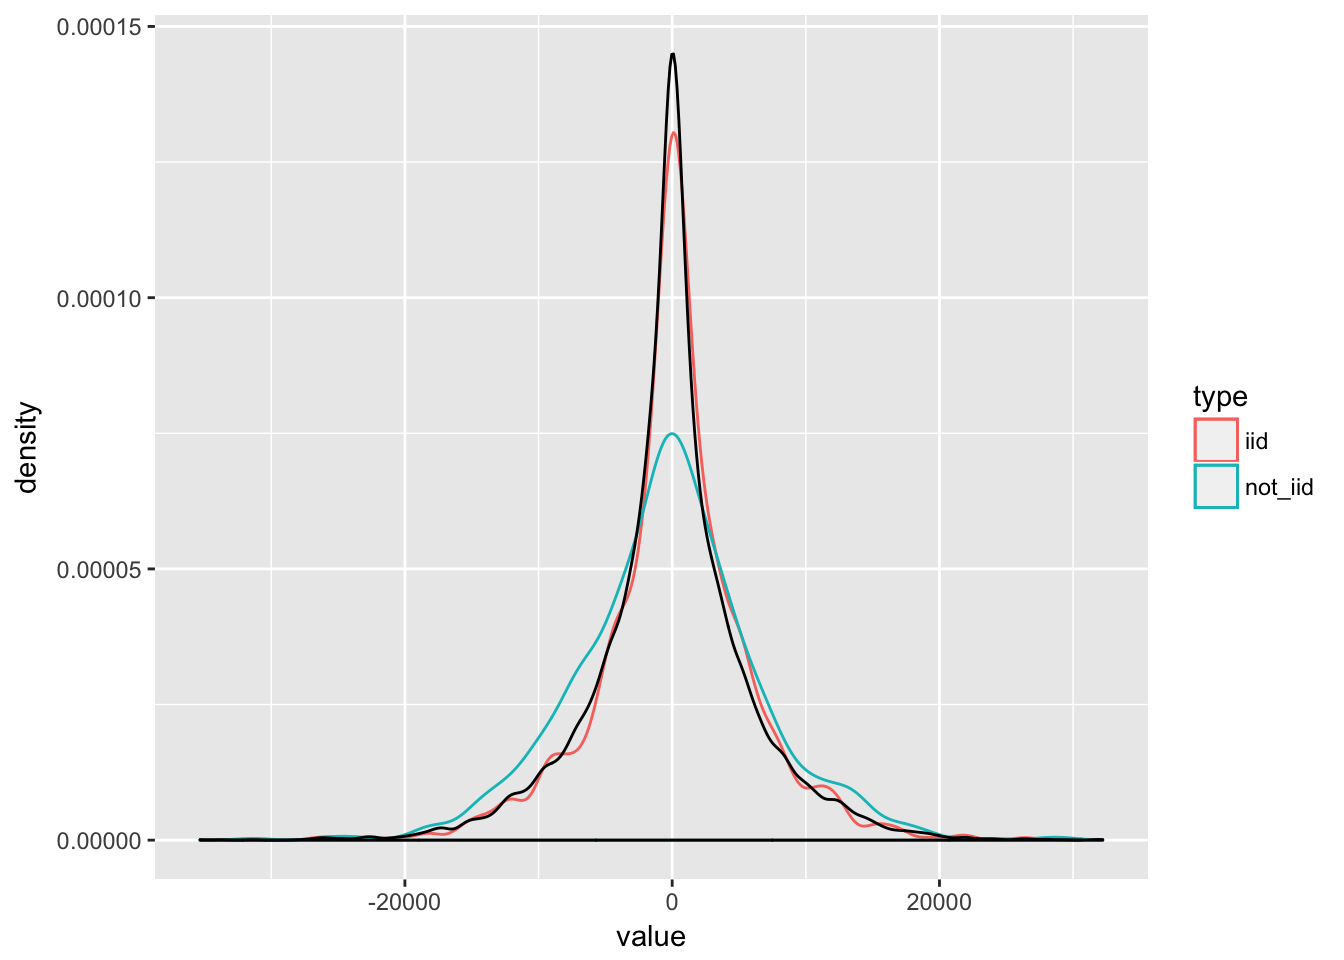
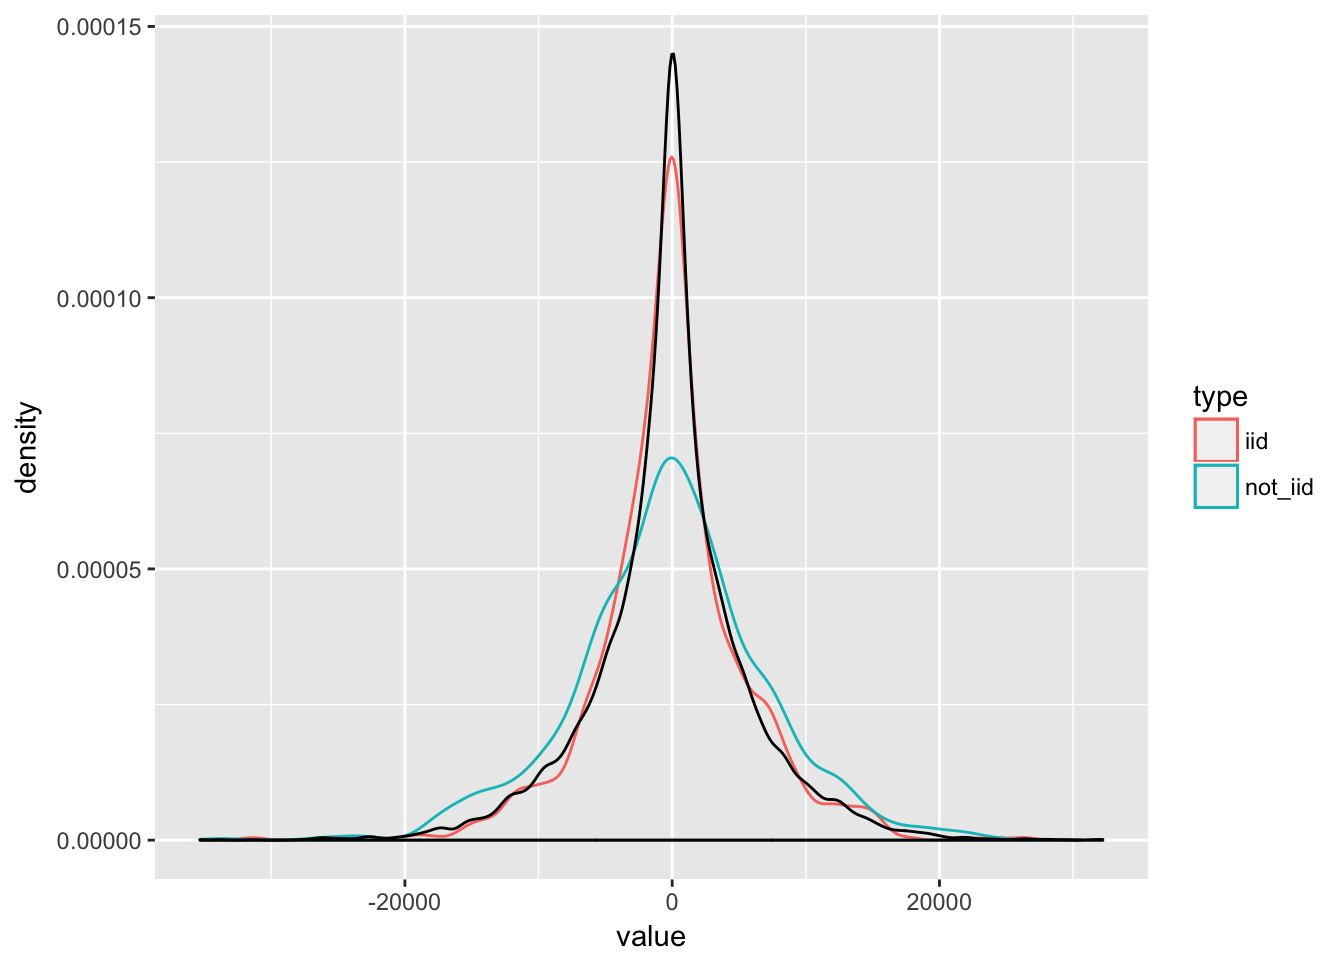
typos and more

Changed region(s): [[0.3125, 0.375, 0.5312, 0.875], [0.5312, 0.5938, 0.75, 0.875], [0.5, 0.1562, 0.5312, 0.3438]]

diff --git a/docs/bootstrap.html b/docs/bootstrap.html
@@ -224,6 +224,7 @@ code > span.in { color: #60a0b0; font-weight: bold; font-style: italic; } /* Inf
 <li class="chapter" data-level="11" data-path="round-up.html"><a href="round-up.html"><i class="fa fa-check"></i><b>11</b> Round up</a><ul>
 <li class="chapter" data-level="11.1" data-path="round-up.html"><a href="round-up.html#comparing-models"><i class="fa fa-check"></i><b>11.1</b> Comparing models</a></li>
 <li class="chapter" data-level="11.2" data-path="round-up.html"><a href="round-up.html#exercises-take-aways"><i class="fa fa-check"></i><b>11.2</b> Exercises Take-aways</a></li>
+<li class="chapter" data-level="11.3" data-path="round-up.html"><a href="round-up.html#cheatsheet"><i class="fa fa-check"></i><b>11.3</b> Cheatsheet</a></li>
 </ul></li>
 <li class="chapter" data-level="12" data-path="intro.html"><a href="intro.html"><i class="fa fa-check"></i><b>12</b> Introduction</a></li>
 <li class="chapter" data-level="" data-path="references.html"><a href="references.html"><i class="fa fa-check"></i>References</a></li>
@@ -257,12 +258,12 @@ code > span.in { color: #60a0b0; font-weight: bold; font-style: italic; } /* Inf
 <p>The problem is that we don’t know <span class="math inline">\(P\)</span>. But we have a data sample that was generated from <span class="math inline">\(P\)</span>. Hence, we can instead take the <strong>empirical</strong> distribution <span class="math inline">\(\hat{P}\)</span> that places probability mass of <span class="math inline">\(1/n\)</span> on each observation, draw a sample from this distribution (which is simply drawing uniformly at random from our sample with replacement) and compute our estimate of interest from this sample. <span class="math display">\[ \hat{\theta}^{*} = g({Z_1}^{*}, ..., {Z_{new}}^{*})\]</span> We can do that many times to get an approximate distribution for <span class="math inline">\(\hat{\theta}\)</span>. A crucial assumption is that <span class="math inline">\(\hat{P}\)</span> reassembles <span class="math inline">\(P\)</span>. If our data is not i.i.d, this may not be the case and hence bootstrapping might be misleading. Below, we can see that i.i.d. sampling (red line) reassembles the true distribution (black line) quite well, whereas biased sampling (blue line) obviously does not. We produce a sample that places higher probability mass on the large (absolute) values.</p>
 <div class="sourceCode"><pre class="sourceCode r"><code class="sourceCode r"><span class="kw">library</span>(<span class="st">&quot;tidyverse&quot;</span>)
 pop &lt;-<span class="st"> </span><span class="kw">data_frame</span>(<span class="dt">pop =</span> <span class="kw">rnorm</span>(<span class="dv">10000</span>) *<span class="st"> </span><span class="dv">1</span>:<span class="dv">10000</span>) 
-iid &lt;-<span class="st"> </span><span class="kw">sample</span>(pop$pop, <span class="dv">1000</span>) <span class="co"># sample iid</span>
+iid &lt;-<span class="st"> </span><span class="kw">sample</span>(pop$pop, <span class="dv">1000</span>, <span class="dt">replace =</span> <span class="ot">TRUE</span>) <span class="co"># sample iid</span>
 
 <span class="co"># sample non-iid: sample is biased towards high absolute values</span>
 ind &lt;-<span class="st"> </span><span class="kw">rbinom</span>(<span class="dv">10000</span>, <span class="dt">size =</span> <span class="dv">1</span>, <span class="dt">prob =</span> <span class="kw">seq</span>(<span class="dv">0</span>, <span class="dv">1</span>, <span class="dt">length.out =</span> <span class="dv">10000</span>)) 
 not_iid &lt;-<span class="st"> </span>pop$pop[<span class="kw">as.logical</span>(ind)] <span class="co"># get sample</span>
-not_iid &lt;-<span class="st"> </span><span class="kw">sample</span>(not_iid, <span class="dv">1000</span>) <span class="co"># reduce sample size to 1000</span>
+not_iid &lt;-<span class="st"> </span><span class="kw">sample</span>(not_iid, <span class="dv">1000</span>, <span class="dt">replace =</span> <span class="ot">TRUE</span>) <span class="co"># reduce sample size to 1000</span>
 
 out &lt;-<span class="st"> </span><span class="kw">data_frame</span>(<span class="dt">iid =</span> iid, <span class="dt">not_iid =</span> not_iid) %&gt;%
 <span class="st">  </span><span class="kw">gather</span>(type, value, iid, not_iid)

diff --git a/docs/round-up.html b/docs/round-up.html
@@ -224,6 +224,7 @@ code > span.in { color: #60a0b0; font-weight: bold; font-style: italic; } /* Inf
 <li class="chapter" data-level="11" data-path="round-up.html"><a href="round-up.html"><i class="fa fa-check"></i><b>11</b> Round up</a><ul>
 <li class="chapter" data-level="11.1" data-path="round-up.html"><a href="round-up.html#comparing-models"><i class="fa fa-check"></i><b>11.1</b> Comparing models</a></li>
 <li class="chapter" data-level="11.2" data-path="round-up.html"><a href="round-up.html#exercises-take-aways"><i class="fa fa-check"></i><b>11.2</b> Exercises Take-aways</a></li>
+<li class="chapter" data-level="11.3" data-path="round-up.html"><a href="round-up.html#cheatsheet"><i class="fa fa-check"></i><b>11.3</b> Cheatsheet</a></li>
 </ul></li>
 <li class="chapter" data-level="12" data-path="intro.html"><a href="intro.html"><i class="fa fa-check"></i><b>12</b> Introduction</a></li>
 <li class="chapter" data-level="" data-path="references.html"><a href="references.html"><i class="fa fa-check"></i>References</a></li>
@@ -274,7 +275,7 @@ formula &lt;-<span class="st"> </span><span class="kw">wrapFormula</span>(
 <p><strong>Matrix Multiplication</strong></p>
 <ul>
 <li>You can’t multiply data frames. No way. Use <code>as.matrix</code> to convert.</li>
-<li>don’t forget the intercept in the model frame.</li>
+<li>Don’t forget the intercept in the model frame.</li>
 </ul>
 <p><strong>Other</strong></p>
 <ul>
@@ -285,8 +286,25 @@ formula &lt;-<span class="st"> </span><span class="kw">wrapFormula</span>(
 <p>When calculating the degrees of freedom, e.g. for the mallows cp, never use someghing like `length(coef(fit))`` as <span class="math inline">\(p\)</span>, since this will only work for linear models. For additive models for example, this will give you the number of soothing terms used, which is <strong>not</strong> equivalent to the degrees of freedom. Instead, use</p>
 <div class="sourceCode"><pre class="sourceCode r"><code class="sourceCode r">fit$df.residual</code></pre></div>
 <p>Which is available for many classes of fitted models, i.e. also GAMs. Also, often it is not necessary to compute something like the residual standard error, since you can conveniently access it via</p>
-<div class="sourceCode"><pre class="sourceCode r"><code class="sourceCode r">fit$sigma</code></pre></div>
+<div class="sourceCode"><pre class="sourceCode r"><code class="sourceCode r"><span class="kw">summary</span>(fit)$sigma</code></pre></div>
 <p>Also, do sanity checks for your results. A qick <code>plot(unlist(cps))</code> for example can show you the various values cp takes for different model vs. their index. As with cross validation, you know that the curve must be somehow convex.</p>
+<p><strong>Inconsistent S3 generics</strong></p>
+<p>Unfortunately, not all S3 generics do feature the same argument names. This is particularly dangerous when using <code>...</code> to pass arguments. For example, different predict methods do not use the same argumet for new data. Some use <code>newdata</code>, others <code>data</code> etc.</p>
+<p><strong>Programming: Fail Fast and debug</strong></p>
+<p>Unit testing on the ways costs next to nothing. Don’t wait testing your functions until you are done with the whole exam. Examples are</p>
+<ul>
+<li>boostrapping: Test whether regression coefficients are exactly the <em>true</em> coefficients when no noise has been added. Otherwise, check whether they are reasonable.</li>
+<li>Test dimensions of matrices you use.</li>
+<li>Test whether values you obatain are plausible</li>
+<li>use <code>browser()</code> extensively, even when writing a function, not just to debug it.</li>
+</ul>
+</div>
+<div id="cheatsheet" class="section level2">
+<h2><span class="header-section-number">11.3</span> Cheatsheet</h2>
+<ul>
+<li>The boostrapped confidence intrevals are</li>
+</ul>
+<p><span class="math display">\[[2 \hat{\theta} - q_{1-\alpha/2}, 2\hat{\theta}- q_{\alpha/2}]\]</span></p>
 
 </div>
 </div>

diff --git a/docs/multiple-linear-regression.html b/docs/multiple-linear-regression.html
@@ -224,6 +224,7 @@ code > span.in { color: #60a0b0; font-weight: bold; font-style: italic; } /* Inf
 <li class="chapter" data-level="11" data-path="round-up.html"><a href="round-up.html"><i class="fa fa-check"></i><b>11</b> Round up</a><ul>
 <li class="chapter" data-level="11.1" data-path="round-up.html"><a href="round-up.html#comparing-models"><i class="fa fa-check"></i><b>11.1</b> Comparing models</a></li>
 <li class="chapter" data-level="11.2" data-path="round-up.html"><a href="round-up.html#exercises-take-aways"><i class="fa fa-check"></i><b>11.2</b> Exercises Take-aways</a></li>
+<li class="chapter" data-level="11.3" data-path="round-up.html"><a href="round-up.html#cheatsheet"><i class="fa fa-check"></i><b>11.3</b> Cheatsheet</a></li>
 </ul></li>
 <li class="chapter" data-level="12" data-path="intro.html"><a href="intro.html"><i class="fa fa-check"></i><b>12</b> Introduction</a></li>
 <li class="chapter" data-level="" data-path="references.html"><a href="references.html"><i class="fa fa-check"></i>References</a></li>
@@ -270,11 +271,11 @@ R&#39;c &amp; = X&#39;Y \\
 \]</span></p>
 <p>Since <span class="math inline">\(R&#39;\)</span> is a lower triangular matrix, you can now solve for <span class="math inline">\(c\)</span> recursively.</p>
 <p><span class="math display">\[\begin{pmatrix}
-\cdots  &amp; \cdots &amp; \cdots &amp; \cdots &amp; \cdots \\
-  &amp; \cdots &amp; \cdots &amp; \cdots &amp; \cdots \\
-  &amp; &amp; \cdots &amp; \cdots &amp; \cdots \\
-  &amp; &amp; &amp; \cdots &amp; \cdots \\
-  \large 0 &amp; &amp; &amp; &amp; r_{nn}
+r_{11}  &amp;  &amp; &amp;  &amp; \large 0 \\
+\cdots   &amp; \cdots &amp; &amp; &amp;  \\
+\cdots  &amp;\cdots &amp; \cdots &amp;  &amp; \\
+  \cdots &amp; \cdots &amp;\cdots  &amp; \cdots &amp; \\
+\cdots  &amp; \cdots &amp; \cdots &amp; \cdots &amp; \cdots
  \end{pmatrix} \times 
  \begin{pmatrix} 
  c_1 \\
@@ -283,7 +284,7 @@ R&#39;c &amp; = X&#39;Y \\
  c_n \\
  \end{pmatrix} 
  = (X&#39;Y)_{n \times 1}
- \]</span> First, solve <span class="math inline">\(c_n\)</span> using <span class="math inline">\(r_{nn} c_n = (X&#39;Y)_{n}\)</span>, then for <span class="math inline">\(c_{n-1}\)</span> etc. when <span class="math inline">\(c\)</span> is solved, solve <span class="math display">\[ R\beta = c\]</span></p>
+ \]</span> First, solve <span class="math inline">\(c_1\)</span> using <span class="math inline">\(r_{11} c_1 = (X&#39;Y)_{1}\)</span>, then for <span class="math inline">\(c_{2}\)</span> etc. when <span class="math inline">\(c\)</span> is solved, solve <span class="math display">\[ R\beta = c\]</span></p>
 <p>Which has the same structure.</p>
 <div id="assumptions-of-the-linear-model" class="section level2">
 <h2><span class="header-section-number">2.1</span> Assumptions of the linear model</h2>
@@ -395,6 +396,7 @@ MSE(x) &amp;= n^{-1} \sum\limits_{i = 1}^n Var[\sum\limits_{j = 1}^q \hat{\beta}
 <p>The problem with the above equation is that since <span class="math inline">\(m(x)\)</span> is unknown, there is no way we can estimate (and hence optimize) the mean squared error. However, you can estimate the mean squared error indirectly by the following quantity</p>
 <p><span class="math display">\[ n^{-1} SSE(\mathcal{M}) - \hat{\sigma}^2 + 2 \hat{\sigma}^2|\mathcal{M}| / n\]</span></p>
 <p>Since <span class="math inline">\(\hat{\sigma}^2\)</span> and <span class="math inline">\(n\)</span> are constants for each sub-model, we can also optimize the well-known cp statistic <span class="math display">\[\mathcal{C}_p = \frac{SSE(\mathcal{M})}{\hat{\sigma}^2} - n + 2 |\mathcal{M}| \]</span></p>
+<p>Hence, multiplying <span class="math inline">\(\mathcal{C}_p\)</span> by <span class="math inline">\(\frac{\hat{\sigma}^2}{n}\)</span>, you end up again with an estimate of the mean square error.</p>
 </div>
 <div id="search-strategies" class="section level3">
 <h3><span class="header-section-number">2.9.2</span> Search strategies</h3>

diff --git a/docs/cross-validation.html b/docs/cross-validation.html
@@ -224,6 +224,7 @@ code > span.in { color: #60a0b0; font-weight: bold; font-style: italic; } /* Inf
 <li class="chapter" data-level="11" data-path="round-up.html"><a href="round-up.html"><i class="fa fa-check"></i><b>11</b> Round up</a><ul>
 <li class="chapter" data-level="11.1" data-path="round-up.html"><a href="round-up.html#comparing-models"><i class="fa fa-check"></i><b>11.1</b> Comparing models</a></li>
 <li class="chapter" data-level="11.2" data-path="round-up.html"><a href="round-up.html#exercises-take-aways"><i class="fa fa-check"></i><b>11.2</b> Exercises Take-aways</a></li>
+<li class="chapter" data-level="11.3" data-path="round-up.html"><a href="round-up.html#cheatsheet"><i class="fa fa-check"></i><b>11.3</b> Cheatsheet</a></li>
 </ul></li>
 <li class="chapter" data-level="12" data-path="intro.html"><a href="intro.html"><i class="fa fa-check"></i><b>12</b> Introduction</a></li>
 <li class="chapter" data-level="" data-path="references.html"><a href="references.html"><i class="fa fa-check"></i>References</a></li>
@@ -354,12 +355,12 @@ get_complement &lt;-<span class="st"> </span>function(mat, n){
 }
 
 get_k_fold_test &lt;-<span class="st"> </span>function(k, n) {
-  step &lt;-<span class="st"> </span><span class="kw">trunc</span>(n/k)
+  step &lt;-<span class="st"> </span><span class="kw">round</span>(n/k)
   current &lt;-<span class="st"> </span><span class="kw">list</span>()
   for (i in (<span class="dv">0</span>:(k<span class="dv">-1</span>) *<span class="st"> </span>step +<span class="st"> </span><span class="dv">1</span>))  {
     current &lt;-<span class="st"> </span><span class="kw">append</span>(
       current, 
-      <span class="kw">list</span>(i:(i+step<span class="dv">-1</span>))
+      <span class="kw">list</span>(i:(<span class="kw">min</span>(i+step<span class="dv">-1</span>, n)))
     )
   }
   current

diff --git a/docs/bagging-and-boosting.html b/docs/bagging-and-boosting.html
@@ -224,6 +224,7 @@ code > span.in { color: #60a0b0; font-weight: bold; font-style: italic; } /* Inf
 <li class="chapter" data-level="11" data-path="round-up.html"><a href="round-up.html"><i class="fa fa-check"></i><b>11</b> Round up</a><ul>
 <li class="chapter" data-level="11.1" data-path="round-up.html"><a href="round-up.html#comparing-models"><i class="fa fa-check"></i><b>11.1</b> Comparing models</a></li>
 <li class="chapter" data-level="11.2" data-path="round-up.html"><a href="round-up.html#exercises-take-aways"><i class="fa fa-check"></i><b>11.2</b> Exercises Take-aways</a></li>
+<li class="chapter" data-level="11.3" data-path="round-up.html"><a href="round-up.html#cheatsheet"><i class="fa fa-check"></i><b>11.3</b> Cheatsheet</a></li>
 </ul></li>
 <li class="chapter" data-level="12" data-path="intro.html"><a href="intro.html"><i class="fa fa-check"></i><b>12</b> Introduction</a></li>
 <li class="chapter" data-level="" data-path="references.html"><a href="references.html"><i class="fa fa-check"></i>References</a></li>

diff --git a/docs/classification.html b/docs/classification.html
@@ -224,6 +224,7 @@ code > span.in { color: #60a0b0; font-weight: bold; font-style: italic; } /* Inf
 <li class="chapter" data-level="11" data-path="round-up.html"><a href="round-up.html"><i class="fa fa-check"></i><b>11</b> Round up</a><ul>
 <li class="chapter" data-level="11.1" data-path="round-up.html"><a href="round-up.html#comparing-models"><i class="fa fa-check"></i><b>11.1</b> Comparing models</a></li>
 <li class="chapter" data-level="11.2" data-path="round-up.html"><a href="round-up.html#exercises-take-aways"><i class="fa fa-check"></i><b>11.2</b> Exercises Take-aways</a></li>
+<li class="chapter" data-level="11.3" data-path="round-up.html"><a href="round-up.html#cheatsheet"><i class="fa fa-check"></i><b>11.3</b> Cheatsheet</a></li>
 </ul></li>
 <li class="chapter" data-level="12" data-path="intro.html"><a href="intro.html"><i class="fa fa-check"></i><b>12</b> Introduction</a></li>
 <li class="chapter" data-level="" data-path="references.html"><a href="references.html"><i class="fa fa-check"></i>References</a></li>

diff --git a/docs/flexible-regression-and-classification-methods.html b/docs/flexible-regression-and-classification-methods.html
@@ -224,6 +224,7 @@ code > span.in { color: #60a0b0; font-weight: bold; font-style: italic; } /* Inf
 <li class="chapter" data-level="11" data-path="round-up.html"><a href="round-up.html"><i class="fa fa-check"></i><b>11</b> Round up</a><ul>
 <li class="chapter" data-level="11.1" data-path="round-up.html"><a href="round-up.html#comparing-models"><i class="fa fa-check"></i><b>11.1</b> Comparing models</a></li>
 <li class="chapter" data-level="11.2" data-path="round-up.html"><a href="round-up.html#exercises-take-aways"><i class="fa fa-check"></i><b>11.2</b> Exercises Take-aways</a></li>
+<li class="chapter" data-level="11.3" data-path="round-up.html"><a href="round-up.html#cheatsheet"><i class="fa fa-check"></i><b>11.3</b> Cheatsheet</a></li>
 </ul></li>
 <li class="chapter" data-level="12" data-path="intro.html"><a href="intro.html"><i class="fa fa-check"></i><b>12</b> Introduction</a></li>
 <li class="chapter" data-level="" data-path="references.html"><a href="references.html"><i class="fa fa-check"></i>References</a></li>

diff --git a/docs/index.html b/docs/index.html
@@ -224,6 +224,7 @@ code > span.in { color: #60a0b0; font-weight: bold; font-style: italic; } /* Inf
 <li class="chapter" data-level="11" data-path="round-up.html"><a href="round-up.html"><i class="fa fa-check"></i><b>11</b> Round up</a><ul>
 <li class="chapter" data-level="11.1" data-path="round-up.html"><a href="round-up.html#comparing-models"><i class="fa fa-check"></i><b>11.1</b> Comparing models</a></li>
 <li class="chapter" data-level="11.2" data-path="round-up.html"><a href="round-up.html#exercises-take-aways"><i class="fa fa-check"></i><b>11.2</b> Exercises Take-aways</a></li>
+<li class="chapter" data-level="11.3" data-path="round-up.html"><a href="round-up.html#cheatsheet"><i class="fa fa-check"></i><b>11.3</b> Cheatsheet</a></li>
 </ul></li>
 <li class="chapter" data-level="12" data-path="intro.html"><a href="intro.html"><i class="fa fa-check"></i><b>12</b> Introduction</a></li>
 <li class="chapter" data-level="" data-path="references.html"><a href="references.html"><i class="fa fa-check"></i>References</a></li>

diff --git a/docs/intro.html b/docs/intro.html
@@ -224,6 +224,7 @@ code > span.in { color: #60a0b0; font-weight: bold; font-style: italic; } /* Inf
 <li class="chapter" data-level="11" data-path="round-up.html"><a href="round-up.html"><i class="fa fa-check"></i><b>11</b> Round up</a><ul>
 <li class="chapter" data-level="11.1" data-path="round-up.html"><a href="round-up.html#comparing-models"><i class="fa fa-check"></i><b>11.1</b> Comparing models</a></li>
 <li class="chapter" data-level="11.2" data-path="round-up.html"><a href="round-up.html#exercises-take-aways"><i class="fa fa-check"></i><b>11.2</b> Exercises Take-aways</a></li>
+<li class="chapter" data-level="11.3" data-path="round-up.html"><a href="round-up.html#cheatsheet"><i class="fa fa-check"></i><b>11.3</b> Cheatsheet</a></li>
 </ul></li>
 <li class="chapter" data-level="12" data-path="intro.html"><a href="intro.html"><i class="fa fa-check"></i><b>12</b> Introduction</a></li>
 <li class="chapter" data-level="" data-path="references.html"><a href="references.html"><i class="fa fa-check"></i>References</a></li>

diff --git a/docs/non-parametric-density-estimation.html b/docs/non-parametric-density-estimation.html
@@ -224,6 +224,7 @@ code > span.in { color: #60a0b0; font-weight: bold; font-style: italic; } /* Inf
 <li class="chapter" data-level="11" data-path="round-up.html"><a href="round-up.html"><i class="fa fa-check"></i><b>11</b> Round up</a><ul>
 <li class="chapter" data-level="11.1" data-path="round-up.html"><a href="round-up.html#comparing-models"><i class="fa fa-check"></i><b>11.1</b> Comparing models</a></li>
 <li class="chapter" data-level="11.2" data-path="round-up.html"><a href="round-up.html#exercises-take-aways"><i class="fa fa-check"></i><b>11.2</b> Exercises Take-aways</a></li>
+<li class="chapter" data-level="11.3" data-path="round-up.html"><a href="round-up.html#cheatsheet"><i class="fa fa-check"></i><b>11.3</b> Cheatsheet</a></li>
 </ul></li>
 <li class="chapter" data-level="12" data-path="intro.html"><a href="intro.html"><i class="fa fa-check"></i><b>12</b> Introduction</a></li>
 <li class="chapter" data-level="" data-path="references.html"><a href="references.html"><i class="fa fa-check"></i>References</a></li>

diff --git a/docs/non-parametric-regression.html b/docs/non-parametric-regression.html
@@ -224,6 +224,7 @@ code > span.in { color: #60a0b0; font-weight: bold; font-style: italic; } /* Inf
 <li class="chapter" data-level="11" data-path="round-up.html"><a href="round-up.html"><i class="fa fa-check"></i><b>11</b> Round up</a><ul>
 <li class="chapter" data-level="11.1" data-path="round-up.html"><a href="round-up.html#comparing-models"><i class="fa fa-check"></i><b>11.1</b> Comparing models</a></li>
 <li class="chapter" data-level="11.2" data-path="round-up.html"><a href="round-up.html#exercises-take-aways"><i class="fa fa-check"></i><b>11.2</b> Exercises Take-aways</a></li>
+<li class="chapter" data-level="11.3" data-path="round-up.html"><a href="round-up.html#cheatsheet"><i class="fa fa-check"></i><b>11.3</b> Cheatsheet</a></li>
 </ul></li>
 <li class="chapter" data-level="12" data-path="intro.html"><a href="intro.html"><i class="fa fa-check"></i><b>12</b> Introduction</a></li>
 <li class="chapter" data-level="" data-path="references.html"><a href="references.html"><i class="fa fa-check"></i>References</a></li>

diff --git a/docs/references.html b/docs/references.html
@@ -224,6 +224,7 @@ code > span.in { color: #60a0b0; font-weight: bold; font-style: italic; } /* Inf
 <li class="chapter" data-level="11" data-path="round-up.html"><a href="round-up.html"><i class="fa fa-check"></i><b>11</b> Round up</a><ul>
 <li class="chapter" data-level="11.1" data-path="round-up.html"><a href="round-up.html#comparing-models"><i class="fa fa-check"></i><b>11.1</b> Comparing models</a></li>
 <li class="chapter" data-level="11.2" data-path="round-up.html"><a href="round-up.html#exercises-take-aways"><i class="fa fa-check"></i><b>11.2</b> Exercises Take-aways</a></li>
+<li class="chapter" data-level="11.3" data-path="round-up.html"><a href="round-up.html#cheatsheet"><i class="fa fa-check"></i><b>11.3</b> Cheatsheet</a></li>
 </ul></li>
 <li class="chapter" data-level="12" data-path="intro.html"><a href="intro.html"><i class="fa fa-check"></i><b>12</b> Introduction</a></li>
 <li class="chapter" data-level="" data-path="references.html"><a href="references.html"><i class="fa fa-check"></i>References</a></li>
